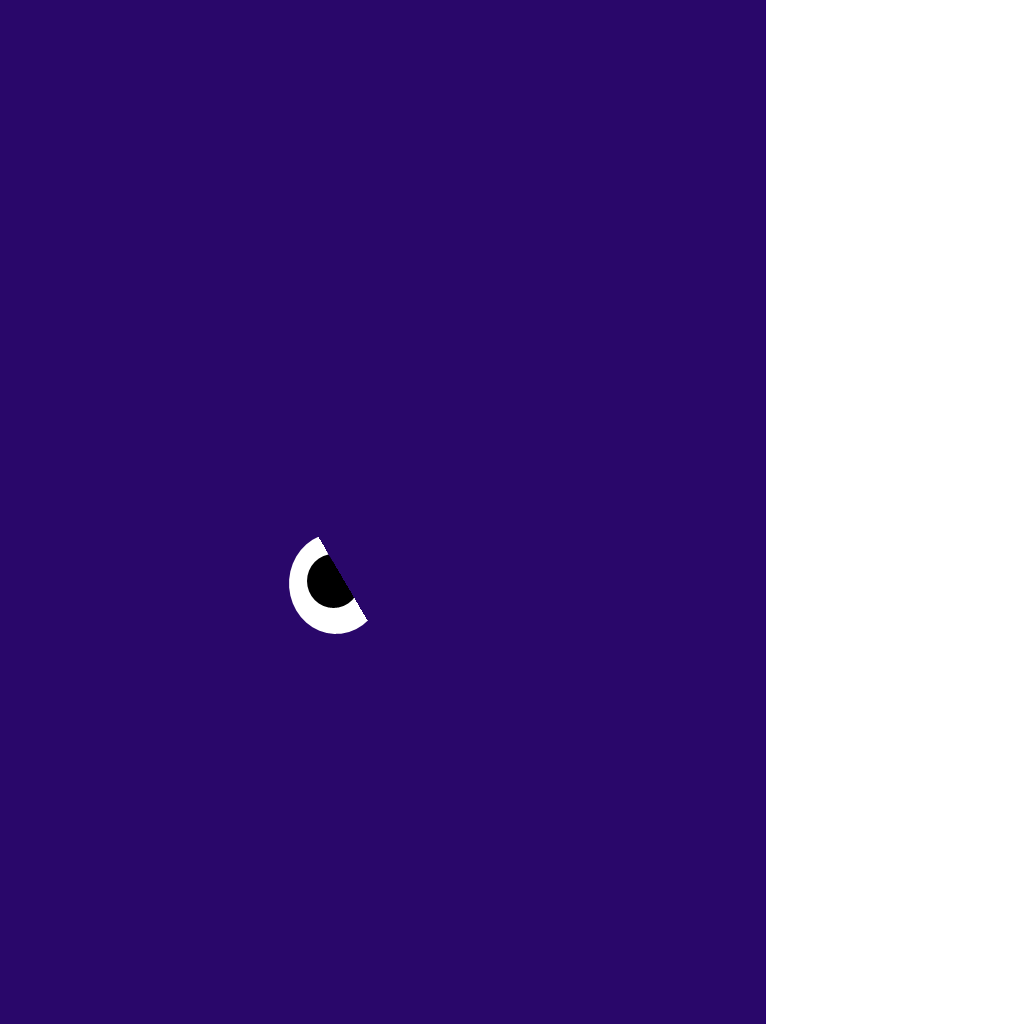
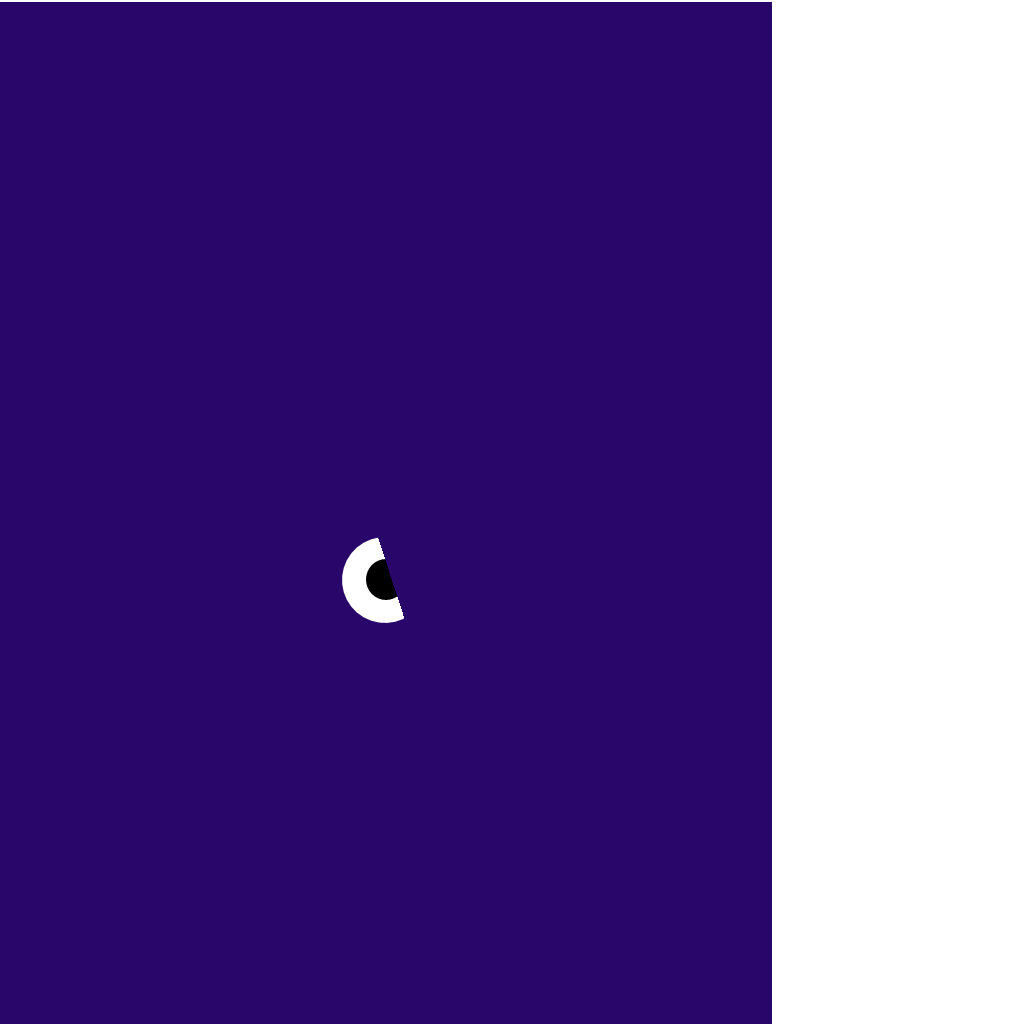
完了

Changed region(s): [[0.7188, 0.0, 0.7812, 1.0], [0.2812, 0.5312, 0.4062, 0.625]]

diff --git a/DirectXGame/DirectXGame/engine/3d/SharkTop.cpp b/DirectXGame/DirectXGame/engine/3d/SharkTop.cpp
@@ -6,7 +6,7 @@ void SharkTop::Initialize(KamataEngine::Model* model) {
 	worldTransform_.Initialize();
 
 	// 初期位置は画面上に設定しておく
-	worldTransform_.translation_ = {45, -30.0f, 0.0f};
+	worldTransform_.translation_ = {55.0f, -30.0f, 0.0f};
 	initialPosition_ = worldTransform_.translation_; // 元の位置を記録
 
 	// タイマー初期化

diff --git a/DirectXGame/DirectXGame/engine/secne/GameScene.cpp b/DirectXGame/DirectXGame/engine/secne/GameScene.cpp
@@ -175,7 +175,7 @@ void GameScene::Update()
 		float dz = bulletPos.z - playerPos.z;
 		float distance = sqrtf(dx*dx + dy*dy + dz*dz);
 
-		float hitRadius = 1.0f;
+		float hitRadius = 2.0f;
 
 		if (distance < hitRadius && !player_->IsDead()) {
 			player_->Kill();
